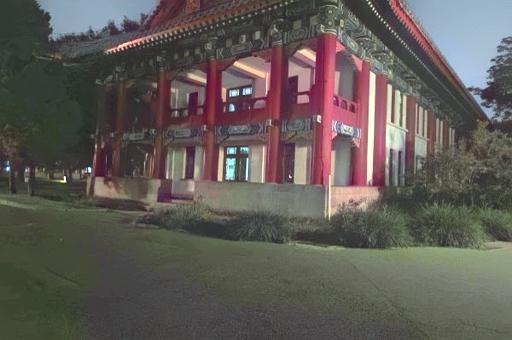
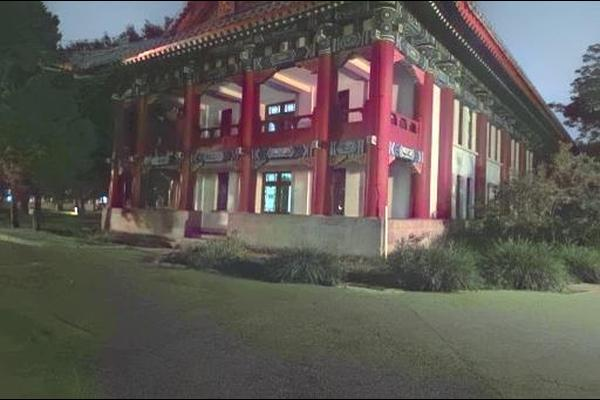
fig:compare restore sample 14 + letterbox cap_vst 14 to 600x400

diff --git a/Template.tex b/Template.tex
@@ -332,14 +332,14 @@ where the VGG-19 network (from ReLu1$\_$1 to ReLu4$\_$1) is employed to obtain $
 \includegraphics[width = 0.115\linewidth]{figures/compare/cap_vst/8_box.jpg} &
 \includegraphics[width = 0.115\linewidth]{figures/compare/ours/8_box.jpg} &
 \includegraphics[width = 0.115\linewidth]{figures/compare/day/8 (2).jpg} \\
-%\includegraphics[width = 0.115\linewidth]{figures/compare/night/14_box.jpg} &
-%\includegraphics[width = 0.115\linewidth]{figures/compare/zero_dce/14_box.jpg} &
-%\includegraphics[width = 0.115\linewidth]{figures/compare/enlightengan/14_box.jpg} &
-%\includegraphics[width = 0.115\linewidth]{figures/compare/retinexformer/14_box.jpg} &
-%\includegraphics[width = 0.115\linewidth]{figures/compare/reti_diff/14_box.jpg} &
-%\includegraphics[width = 0.115\linewidth]{figures/compare/cap_vst/14_box.jpg} &
-%\includegraphics[width = 0.115\linewidth]{figures/compare/ours/14_box.jpg} &
-%\includegraphics[width = 0.115\linewidth]{figures/compare/day/14 (12).jpg} \\
+\includegraphics[width = 0.115\linewidth]{figures/compare/night/14_box.jpg} &
+\includegraphics[width = 0.115\linewidth]{figures/compare/zero_dce/14_box.jpg} &
+\includegraphics[width = 0.115\linewidth]{figures/compare/enlightengan/14_box.jpg} &
+\includegraphics[width = 0.115\linewidth]{figures/compare/retinexformer/14_box.jpg} &
+\includegraphics[width = 0.115\linewidth]{figures/compare/reti_diff/14_box.jpg} &
+\includegraphics[width = 0.115\linewidth]{figures/compare/cap_vst/14_box.jpg} &
+\includegraphics[width = 0.115\linewidth]{figures/compare/ours/14_box.jpg} &
+\includegraphics[width = 0.115\linewidth]{figures/compare/day/14 (12).jpg} \\
 \includegraphics[width = 0.115\linewidth]{figures/compare/night/15_box.jpg} &
 \includegraphics[width = 0.115\linewidth]{figures/compare/zero_dce/15_box.jpg} &
 \includegraphics[width = 0.115\linewidth]{figures/compare/enlightengan/15_box.jpg} &
